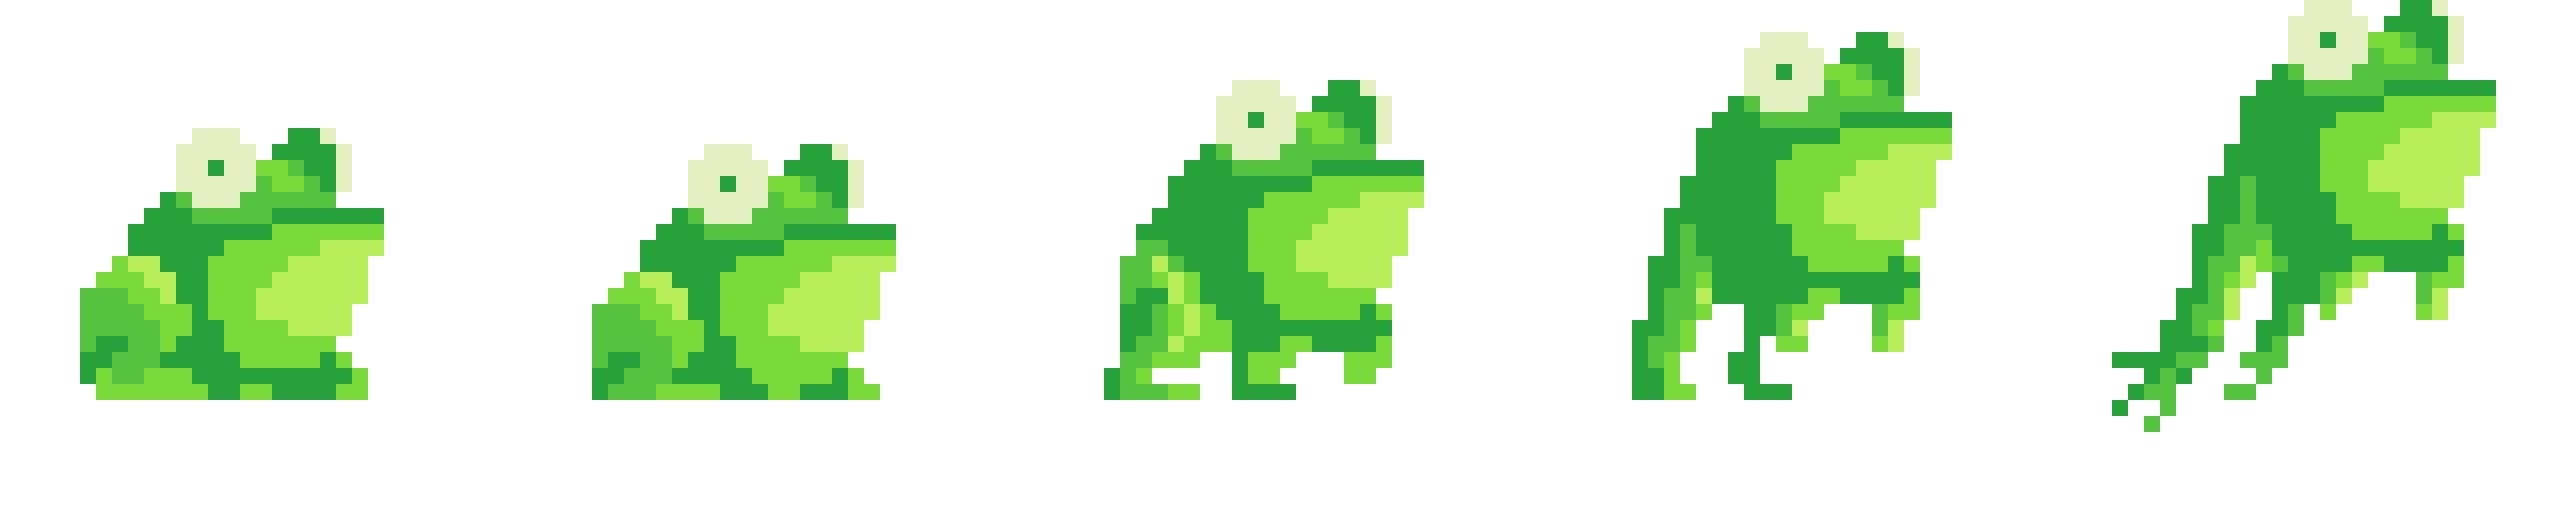
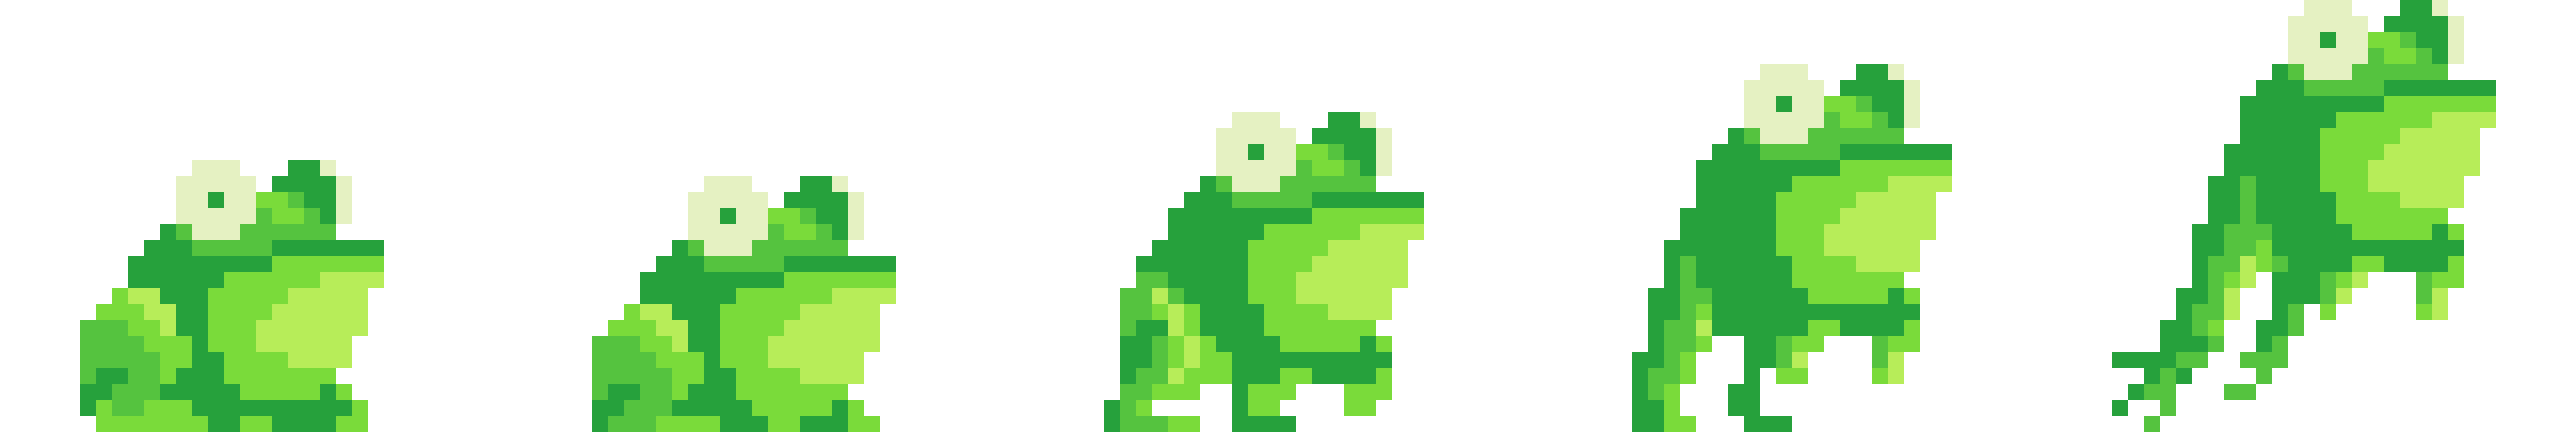
add sheet sprite

diff --git a/frog/game.js b/frog/game.js
@@ -1,6 +1,6 @@
 window.onload = function() {
 
-    var game = new Phaser.Game(848, 480, Phaser.AUTO, '', { preload: preload, create: create, update: update});
+    var game = new Phaser.Game(848, 480, Phaser.AUTO, '', { preload: preload, create: create, update: update, render: render});
     var jumpButton;
     var platforms;
     var character;
@@ -15,10 +15,11 @@ window.onload = function() {
     const PLATFORM_VELOCITY = -120;
 
     function preload () {
-        game.load.image('platform', 'assets/platform.png');
+        // game.load.image('platform', 'assets/platform.png');
+        game.load.image('platform', 'assets/river_sheet.png');
         game.load.image('sky', 'assets/background_sky.jpg');
 
-        game.load.spritesheet('frog', 'assets/frog.png', 512, 512, 5);
+        game.load.spritesheet('frog', 'assets/frog.png', 512, 432, 5);
     }
 
     function create () {
@@ -29,13 +30,6 @@ window.onload = function() {
 
         character = new Character(game);
         createPlatform();
-
-        frog.scale.setTo(0.2, 0.2);
-        frog.animations.add('jump');
-        frog.animations.play('jump', 15, true);
-        
-        frog.animations.add('down', [1], 15, true);
-        frog.animations.play('down', 15, true);
     }
 
     function update () {
@@ -47,9 +41,19 @@ window.onload = function() {
         game.time.events.add(game.rnd.between(PLATFORM_MIN_DELAY, PLATFORM_MAX_DELAY), function() {
             var platform = new Platform(game);
             game.add.existing(platform);
+
             platforms.add(platform);
             createPlatform();
         });
+    }
+
+    function render() {
+//        game.debug.body(character);
+//        platforms.forEachAlive(renderGroup, this);
+    }
+
+    function renderGroup(member) {
+        game.debug.body(member);
     }
 };
 
@@ -108,7 +112,8 @@ Platform = function (game) {
     Phaser.Sprite.call(this, game, game.width + 50, game.height - 50, 'platform');
     game.physics.enable(this, Phaser.Physics.ARCADE);
     this.anchor.set(0.5);
-    this.scale.setTo(0.3, 0.3);
+    this.scale.setTo(0.25, 0.25);
+    this.body.setSize(200, 50, 0, 20);
 };
 
 Platform.prototype = Object.create(Phaser.Sprite.prototype);
